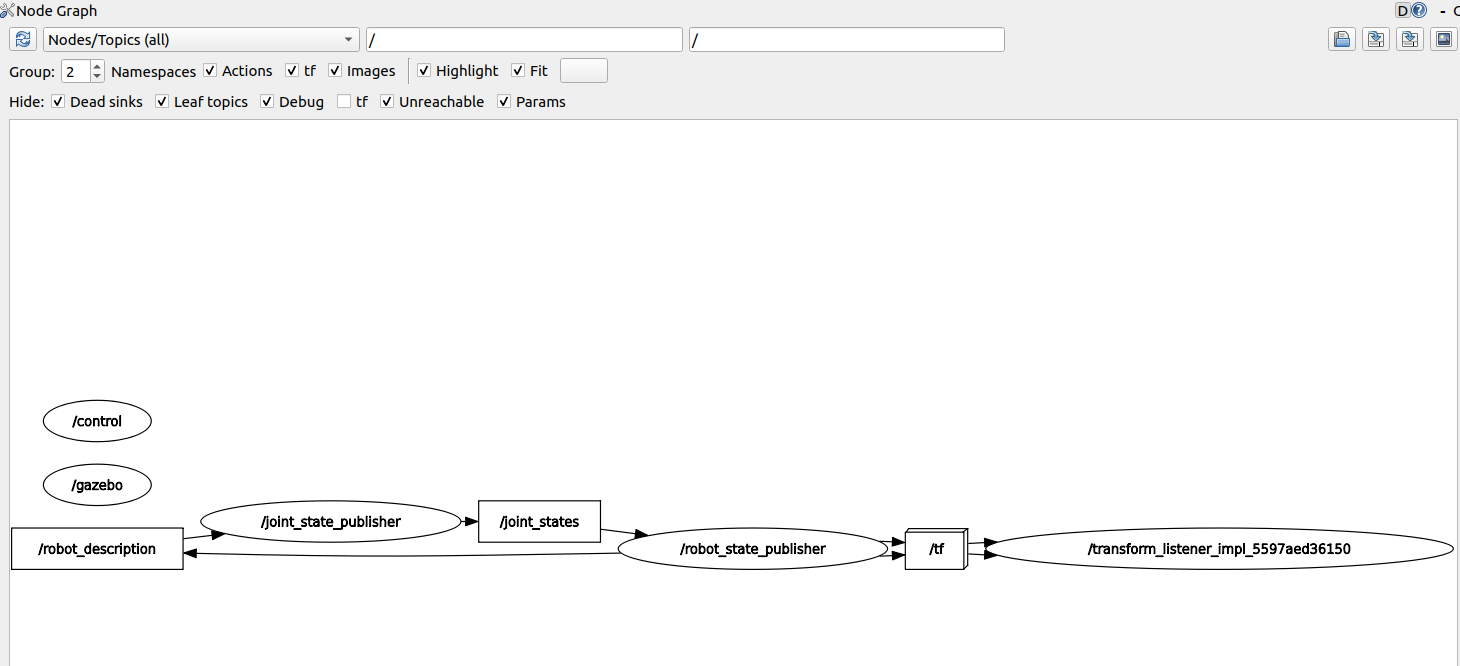
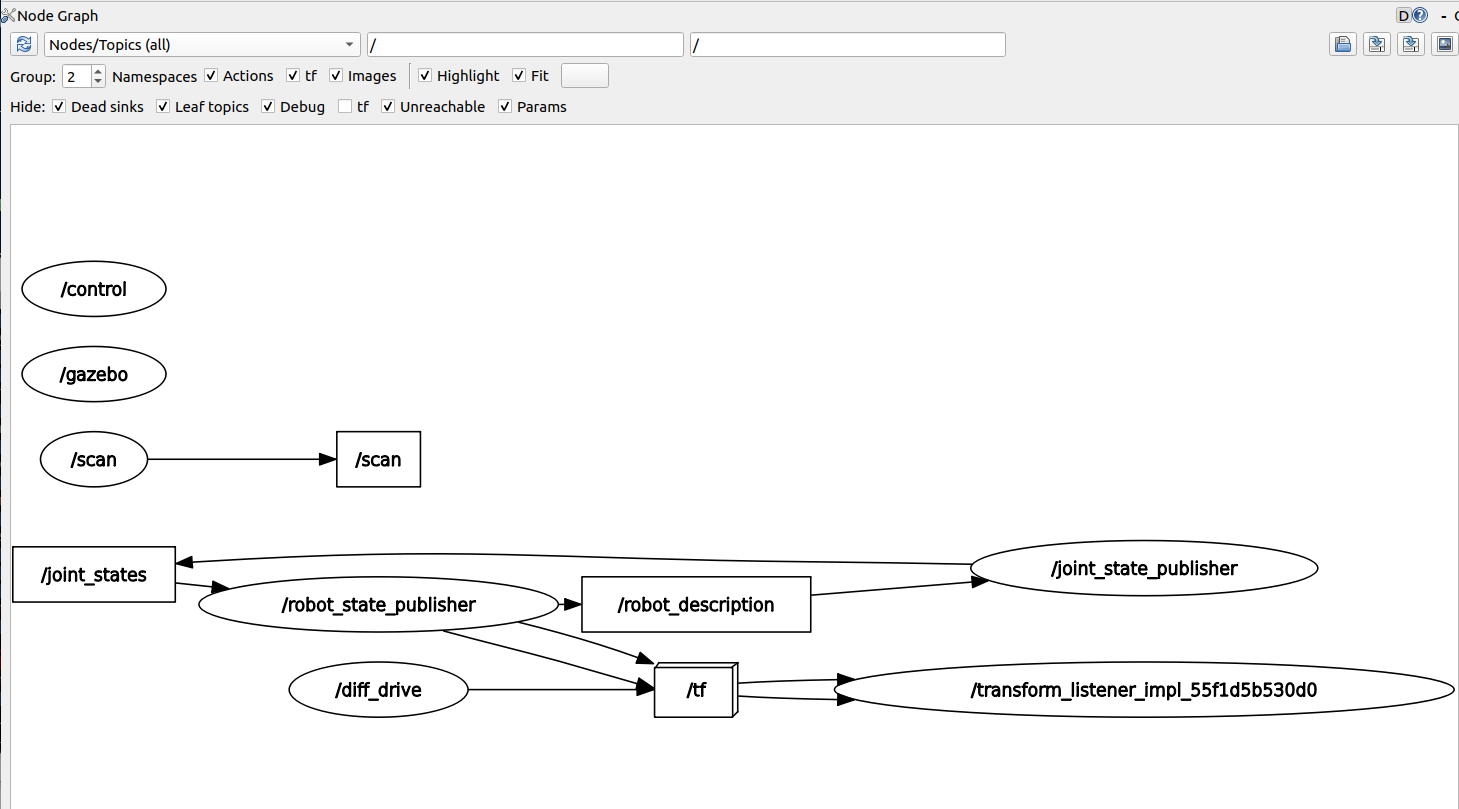
added examples of the usage and a gif to view the outcome
modified:   README.md

diff --git a/README.md b/README.md
@@ -8,6 +8,12 @@ simplebot_description is in charge to launch in rviz and gazebo the fusion 360 u
 
 Below and examples of the outcome
 
+### <b>Simplebot Teleoperation</b>
+<p align="center">
+<img src = "doc/gif/simplebot_gazebo_ros2.gif?raw=true" center=true width="85%"/>
+</p>
+
+
 ### <b>Simplebot Gazebo</b>
 <p align="center">
 <img src = "doc/imgs/simplebot_gazebo_view.PNG?raw=true" center=true width="85%"/>
@@ -30,6 +36,7 @@ Below and examples of the outcome
 <summary> <b>Using the Package<b></summary>
 
 - Follow the next steps to replicate the outcome
+- On the first terminal
 ~~~
     cd ~/ros2_ws/src
     git clone https://github.com/issaiass/simplebot_description.git
@@ -38,10 +45,23 @@ Below and examples of the outcome
     ros2 launch simplebot_description display.launch.py
 ~~~
 
+- On the second terminal
+~~~
+    ros2 run teleop_twist_keyboard teleop_twist_keyboard
+~~~
+
+- Press the keys suggested to move the robot
+- put an object in front of the robot
+- view the rviz2 window, you will find the lidar points in red.
+
 <details open>
 <summary> <b>Results<b></summary>
 
-We will made a youtube video later
+Last video update - Simplebot Teleoperation
+
+[<img src= "https://img.youtube.com/vi/-lZ4t5rnFIk/0.jpg" />](https://youtu.be/-lZ4t5rnFIk)
+
+
 
 <p align="center"> </p>
 </details>
@@ -52,6 +72,7 @@ We will made a youtube video later
 <summary> <b>Issues<b></summary>
 
 - No issues encountered right now, but probably the caster_joint is not at the position desired, is not a problem.
+- If the robot slips over time you need to change mu1 and mu2 over the .gazebo file in urdf folder
 
 </details>
 
